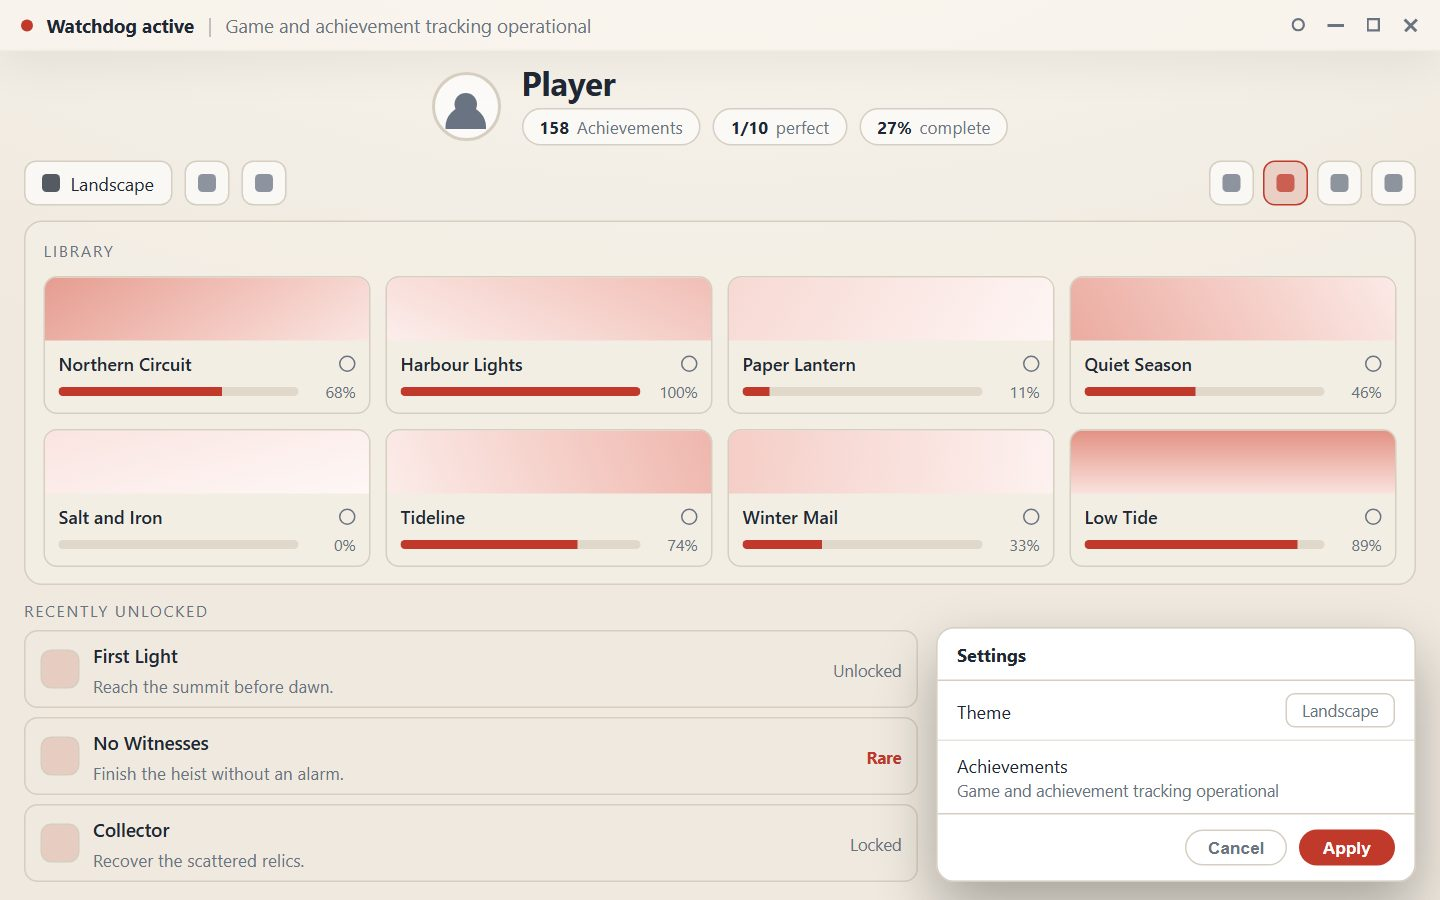
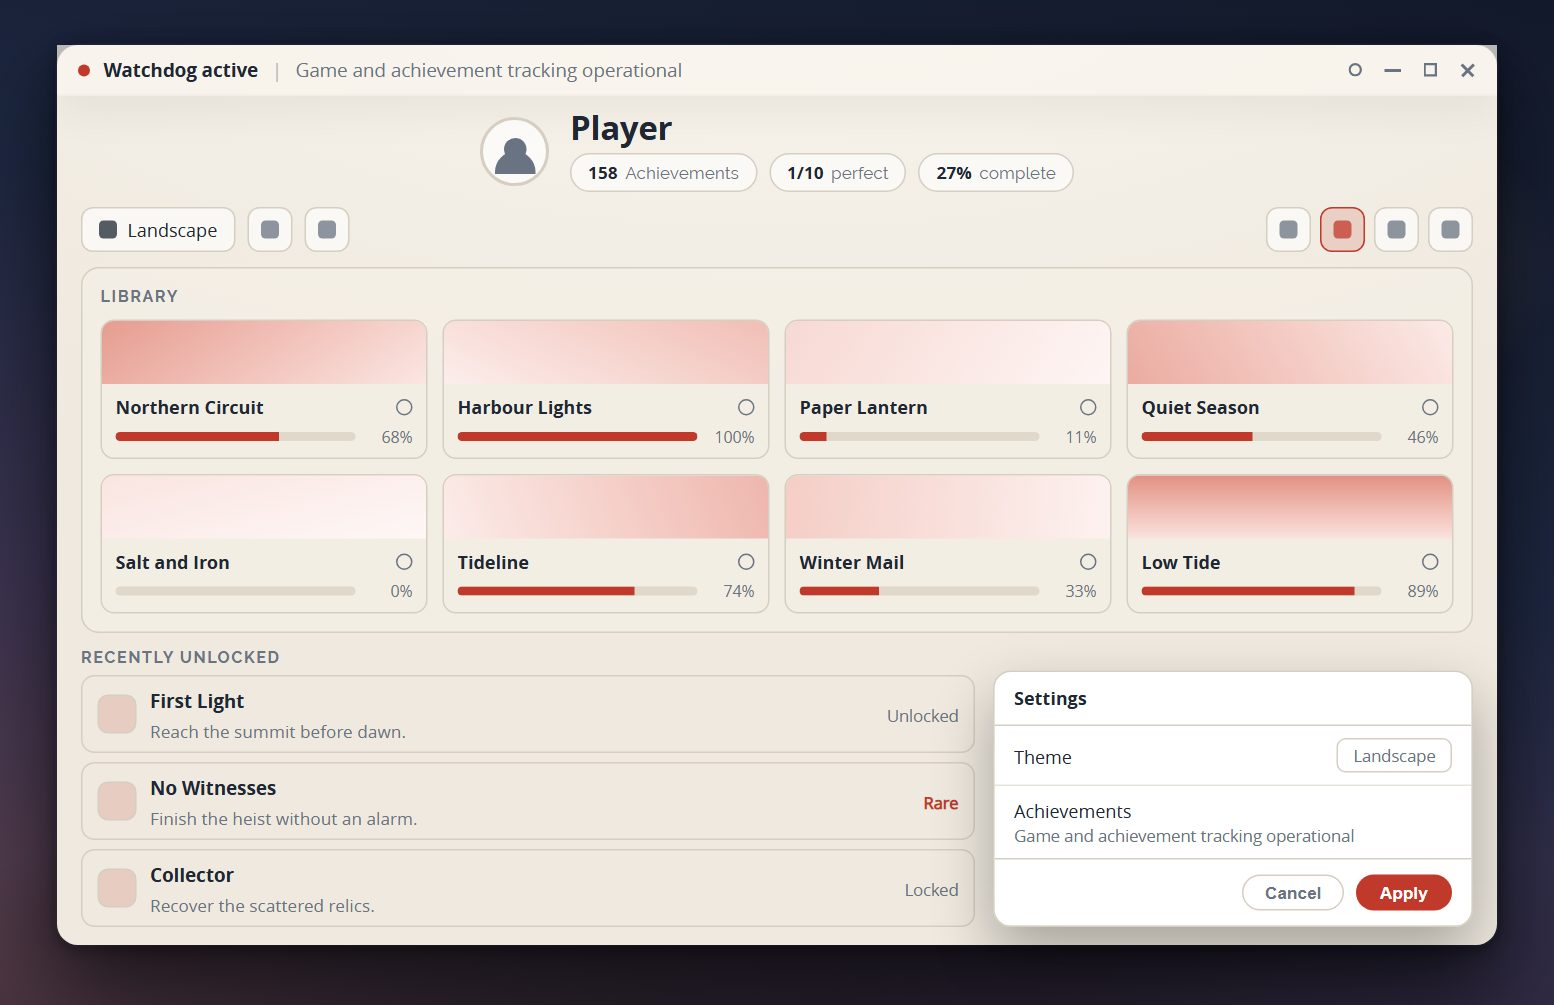
feat(themes): draw the theme sample on a scene, not a blank page
A see-through theme photographed over nothing reads as washed out, because
the picture shows what is behind the window and there was nothing there. The
sample now sits in a rounded window on a fixed CSS backdrop, so Settings and
the gallery card judge a theme the way it will actually look.

diff --git a/app/util/themeMock.js b/app/util/themeMock.js
@@ -72,6 +72,47 @@ const BASE_TOKENS = `
 }
 `;
 
+/*
+  The scene the window sits in.
+
+  A theme may be see-through: the editor's opacity slider is on every layer, and a theme built
+  around a wallpaper usually leaves the window itself partly transparent. Photographed against the
+  browser's blank page, such a theme reads as a pale, washed-out design that nobody would install -
+  the picture shows what is behind the window, and behind the window there was nothing.
+
+  So the document paints something behind it. Not a screenshot and not artwork: a fixed CSS scene,
+  the same four gradients every time, so two renders of one theme are still the same picture and the
+  gallery's cache by checksum still holds. It carries a bright band and a dark one, which is what
+  makes a see-through theme legible whether it is a light one or a dark one, and it puts the window
+  on a surface the way the app is actually seen - over a game or a desktop, never over white.
+*/
+const SCENE = `
+html {
+  height: 100%;
+  padding: 30px 38px 40px;
+  background-color: #0d1119;
+  background-image:
+    radial-gradient(120% 70% at 50% 118%, rgba(6, 9, 14, 0.92) 0%, rgba(6, 9, 14, 0) 62%),
+    radial-gradient(38% 30% at 74% 26%, rgba(255, 196, 138, 0.30) 0%, rgba(255, 196, 138, 0) 70%),
+    linear-gradient(196deg, #131a2b 0%, #1d2740 42%, #3b3350 70%, #5b3f4b 100%),
+    linear-gradient(#0d1119, #0d1119);
+  background-repeat: no-repeat;
+  background-position: center;
+  background-size: cover;
+}
+
+/*
+  The window. The generated theme stylesheet paints the body element, so the body IS the window and
+  the frame around it is drawn here: the rounded corner, the hairline and the cast shadow the app has
+  on a desktop. Clipped, so a theme's own background stops at the corner rather than squaring it off.
+*/
+body {
+  border-radius: 14px;
+  overflow: hidden;
+  box-shadow: 0 26px 60px rgba(0, 0, 0, 0.62), 0 2px 10px rgba(0, 0, 0, 0.45), 0 0 0 1px rgba(255, 255, 255, 0.07);
+}
+`;
+
 const LAYOUT = `
 * { box-sizing: border-box; }
 html, body { height: 100%; margin: 0; }
@@ -398,7 +439,7 @@ function buildThemeMock(theme, options = {}) {
     fontCss ? `<style>${fontCss}</style>` : '',
     `<style>${BASE_TOKENS}</style>`,
     `<style>${buildCustomAppCss(clean)}</style>`,
-    `<style>:root { ${veilHeader} }${LAYOUT}</style>`,
+    `<style>:root { ${veilHeader} }${SCENE}${LAYOUT}</style>`,
     '</head>',
     '<body>',
     '<div class="mock">',
@@ -465,7 +506,16 @@ function buildThemeMock(theme, options = {}) {
   The size the sample is laid out for. Anything showing the mock renders it at exactly this and
   scales the result, rather than letting it re-flow: a frame of its own width would drop a library
   row here that the published picture shows, and then the preview would not be the promise.
-*/
-const DESIGN = { width: 960, height: 600 };
 
-module.exports = { buildThemeMock, DESIGN, SAMPLE, DEFAULT_LABELS };
+  It is the window plus the scene around it. The window keeps the 960x600 it always had - so the
+  library still shows the same eight tiles and nothing re-flowed when the scene arrived - and the
+  padding in SCENE is what the rest is.
+*/
+const WINDOW = { width: 960, height: 600 };
+const SCENE_INSET = { x: 38, top: 30, bottom: 40 };
+const DESIGN = {
+  width: WINDOW.width + SCENE_INSET.x * 2,
+  height: WINDOW.height + SCENE_INSET.top + SCENE_INSET.bottom,
+};
+
+module.exports = { buildThemeMock, DESIGN, WINDOW, SAMPLE, DEFAULT_LABELS };

diff --git a/test/core/themeMock.test.js b/test/core/themeMock.test.js
@@ -13,7 +13,7 @@ const path = require('node:path');
 const test = require('node:test');
 
 const appRoot = path.join(__dirname, '..', '..', 'app');
-const { buildThemeMock, SAMPLE, DEFAULT_LABELS } = require(path.join(appRoot, 'util', 'themeMock.js'));
+const { buildThemeMock, DESIGN, WINDOW, SAMPLE, DEFAULT_LABELS } = require(path.join(appRoot, 'util', 'themeMock.js'));
 const themeLayers = require(path.join(appRoot, 'util', 'themeLayers.js'));
 
 function theme(overrides = {}) {
@@ -163,4 +163,38 @@ test('a model the editor would not produce is clamped before it is drawn', () =>
   assert.ok(html.includes('#00ff00') || html.includes('#0f0'), 'a short hex is still a colour');
   assert.ok(!html.includes('9999px'), 'an out of range blur reached the document');
   assert.ok(!html.includes('nonsense'));
+});
+
+/*
+  A theme may be see-through, and photographed against a blank page such a theme reads as a washed
+  out design nobody would install. So the document paints a scene behind the window - and the scene
+  has to be a constant, because the gallery caches a rendered picture by the checksum of the file it
+  came from and two renders of one theme have to be the same picture.
+*/
+test('the window is drawn on a fixed scene, not on a blank page', () => {
+  const one = buildThemeMock(theme({ bg: { color: '#10182080' } }));
+  const two = buildThemeMock(theme({ bg: { color: '#10182080' } }));
+  assert.equal(one, two, 'the scene is not deterministic');
+
+  // Whatever the theme is, the scene is the same, so it can never be mistaken for part of it.
+  const other = buildThemeMock(theme({ bg: { color: '#ffffff' }, accent: { color: '#ff0000' } }));
+  for (const document of [one, other]) {
+    assert.match(document, /html \{[^}]*background-color: #0d1119/, 'the scene is missing behind the window');
+    assert.match(document, /html \{[^}]*padding:/, 'the window is not inset from the edge of the picture');
+    // The frame the app has on a desktop: a rounded, clipped, shadowed window rather than a page.
+    assert.match(document, /border-radius: 14px/);
+    assert.match(document, /box-shadow: 0 26px 60px/);
+  }
+
+  // The scene is drawn, not fetched: nothing here may reach a file or the network.
+  const scene = one.slice(one.indexOf('html {'), one.indexOf('.mock-header'));
+  assert.ok(!/url\(/i.test(scene), 'the scene loads something instead of drawing itself');
+});
+
+// The window keeps the size it always had, so the library still shows the same tiles and the
+// in-app preview and a gallery card are still the same picture at different scales.
+test('the scene is added around the window, not taken out of it', () => {
+  assert.deepEqual(WINDOW, { width: 960, height: 600 });
+  assert.ok(DESIGN.width > WINDOW.width && DESIGN.height > WINDOW.height, 'the design frame did not grow with the scene');
+  assert.equal((DESIGN.width - WINDOW.width) % 2, 0, 'the window is not centred horizontally');
 });
